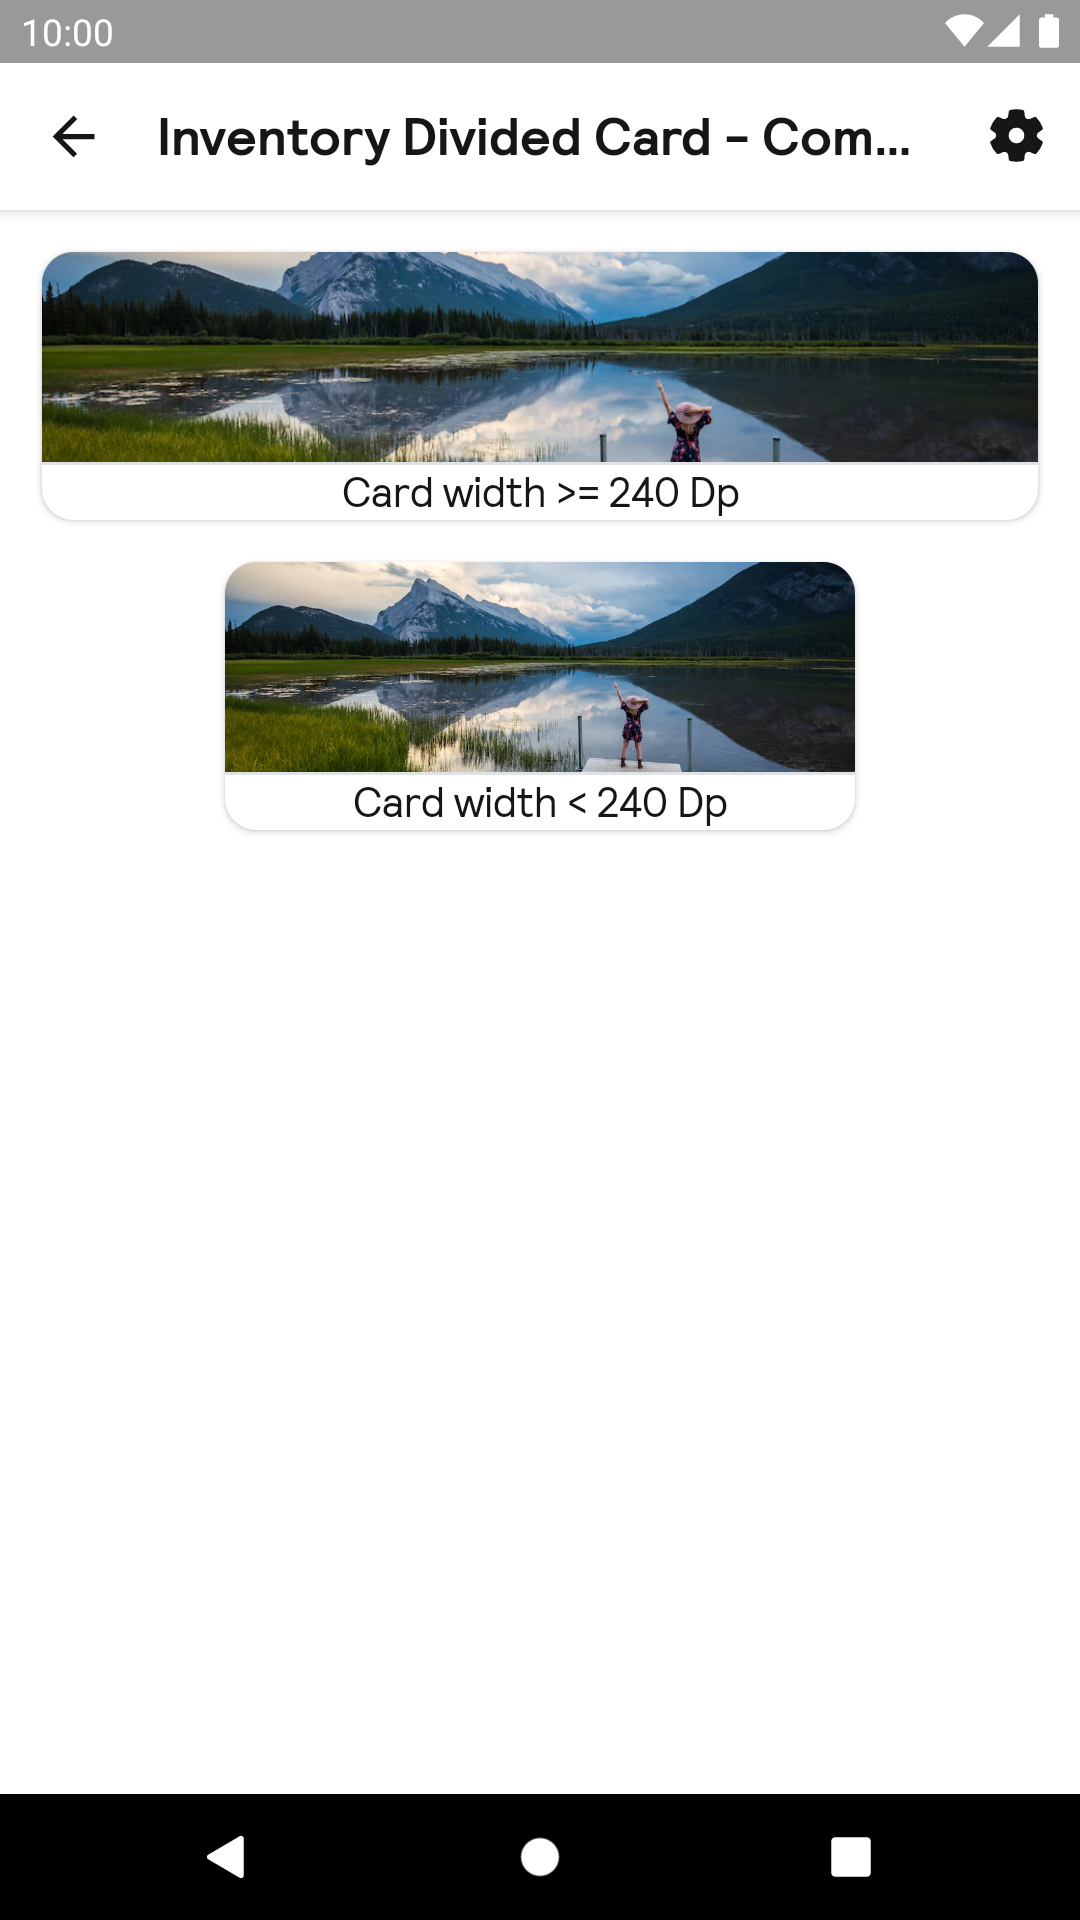
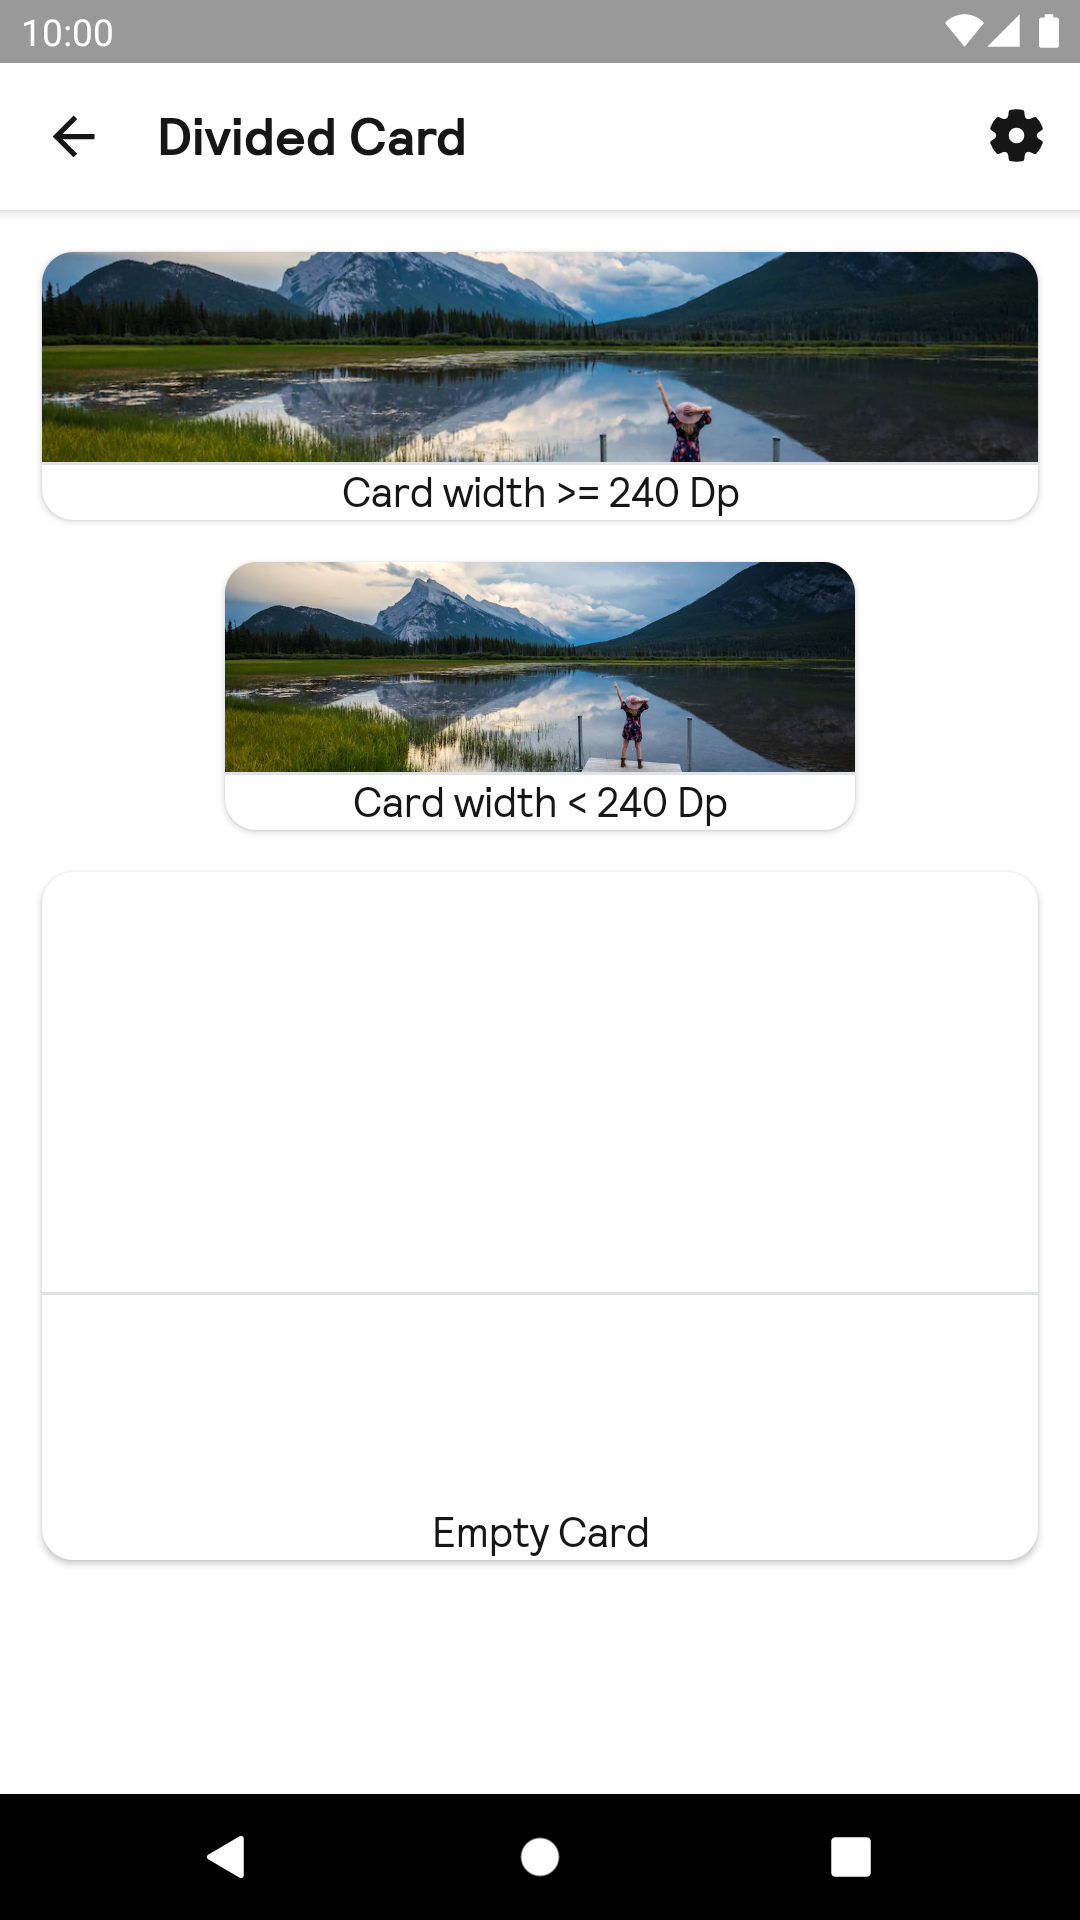
SONIC-1227 new screenshots

Changed region(s): [[0.1528, 0.0625, 0.6722, 0.0938], [0.3972, 0.7812, 0.6111, 0.8125], [0.7028, 0.0625, 0.825, 0.0938]]

diff --git a/app/src/androidTest/java/net/skyscanner/backpack/docs/DocsRegistry.kt b/app/src/androidTest/java/net/skyscanner/backpack/docs/DocsRegistry.kt
@@ -95,7 +95,7 @@ object DocsRegistry {
     ComposeScreenshot("Dialog - Compose", "image-end-alignment") {
       setupComposeDialog(it, ShownDialog.ImageEndAlignment)
     },
-    ComposeScreenshot("Divided Card - Compose", "default"),
+    ComposeScreenshot("Divided Card", "default"),
     ComposeScreenshot("Divider", "default"),
     ComposeScreenshot("FieldSet", "default"),
     ComposeScreenshot("FieldSet", "disabled") { it.switchFieldStatus(BpkFieldStatus.Disabled) },
